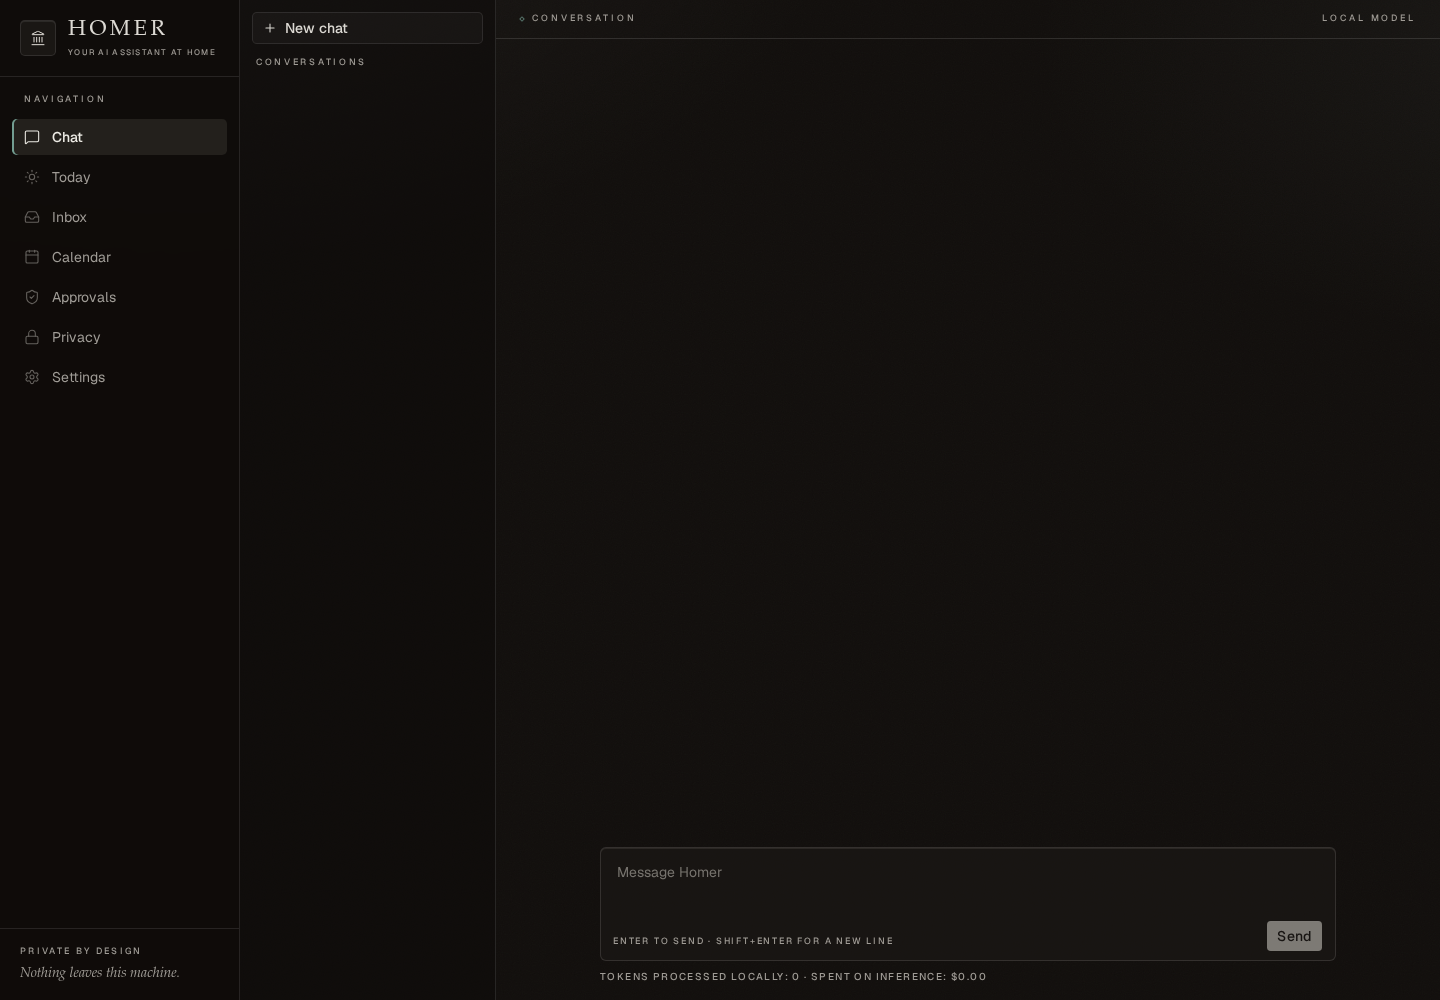
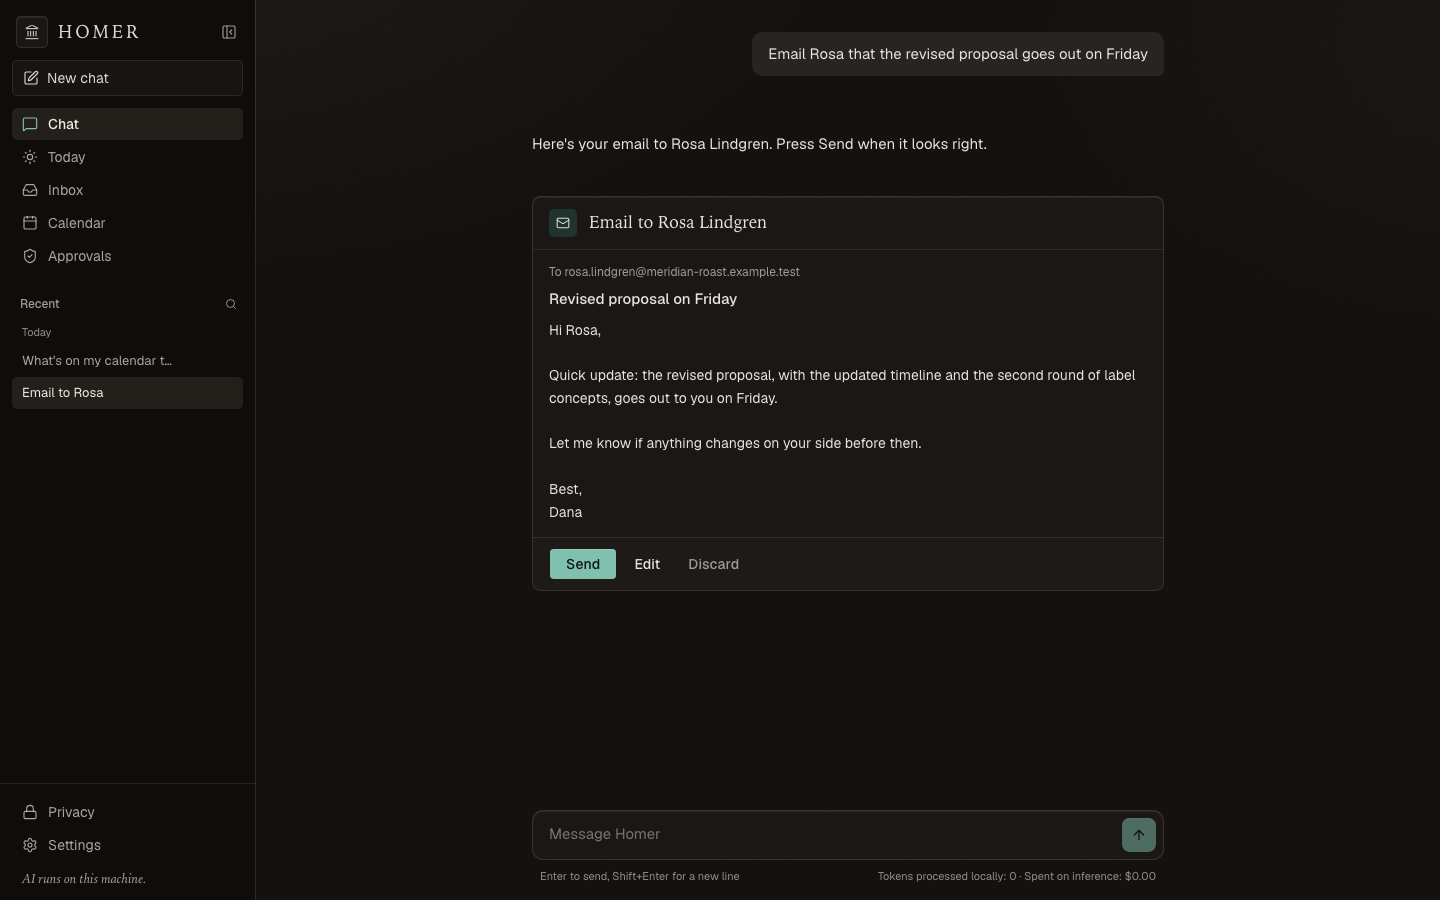
docs: chat cards, sidebar and new UI previews

diff --git a/docs/DECISIONS.md b/docs/DECISIONS.md
@@ -167,3 +167,8 @@ One line each. Newest at the bottom.
 - 2026-11-06: Typed approvals also accept "fire it off" and "go for it".
 - 2026-11-10: Sent mail carries an HTML alternative built from the plain-text paragraphs. Reason: Gmail mobile showed hard line breaks mid-sentence in plain-text-only mail; HTML lets every client reflow. Reading mail still prefers the plain part.
 - 2026-11-10: Contacts calls go to `people.googleapis.com` (separate allowlisted host; follows `GOOGLE_API_BASE` when that points at the simulator). Unknown tool errors show a plain sentence naming the service and are logged with details instead of echoing raw Google error pages. Reason: first real-Gmail contacts lookup returned 404 HTML into the chat.
+- 2026-11-10: Approvals store `message_id` (the assistant reply that shows them), set when the reply is saved; an Alembic migration backfills it from the first assistant reply after each approval. The chat page loads `GET /api/approvals?conversation_id=N` and renders each card under its message. Reason: cards lived only in the SSE stream and never rendered (the stream compared a numeric conversation id with the string from the URL), so a reload or a missed event lost the Send button.
+- 2026-11-10: "show me the draft", "show it", "where is it" with a pending approval in the chat answer "Here's the draft." and re-send the card without a model call; the card moves to that reply. Reason: one live card per approval, no duplicates.
+- 2026-11-10: Email approval payloads carry `to_name` when the recipient came from contacts, so the card header reads "Email to <name>". The confirmation sentence is now "Here's your email to <name>. Press Send when it looks right." (one edit in `services/jobs/send_email.py`, which another branch also edits).
+- 2026-11-10: Conversation titles are made in code: from the first resolved intent ("Email to Sam", "Calendar tomorrow", the search query), else the first five words with an ellipsis; addresses become a first name. Titles still equal to the old six-word default are rewritten when the list is read. Reason: titles were raw prompts cut mid-word, sometimes showing email addresses.
+- 2026-11-10: One collapsible sidebar (state in `localStorage`, overlay under 768 px) holds navigation and, on Chat, the recent conversations; the separate conversation column and the chat header strip are gone. Small labels are sentence case; only the HOMER wordmark keeps capitals. A `brand` teal token (from the existing ring hue, AA in both themes) is the one primary-action colour. Guidance: Anthropic's public `frontend-design` skill (skills/frontend-design/SKILL.md). Reason: owner asked for a calmer, less cluttered chat.

diff --git a/docs/CHANGELOG.md b/docs/CHANGELOG.md
@@ -20,3 +20,4 @@
 - Mail and calendar views: a three-pane Inbox read live from Gmail (folders, labels and Homer's categories with counts, Gmail search, paging, threads with sanitised HTML in a sandboxed frame, remote images blocked until "Show images", attachments listed), reply / reply all / forward / new message in an inline composer with "Draft with Homer", Send through the existing `mail_send` approval card, and direct archive, star, read/unread and labels; a Day / Week / Month Calendar in the user's timezone with an all-day strip, side-by-side overlaps, a now line, event details with responses and video link, click or drag to create, drag to move, edit and cancel, all through `cal_create`/`cal_update`/`cal_delete` approval cards, and a "Find a time" panel with attendees; keyboard shortcuts with a `?` cheat sheet; new `/api/mail/*` and `/api/calendar/events*` routes, google tools `mail_list_threads`, `mail_labels`, `mail_thread_label`, `cal_get` and attendee-aware `cal_find_free_slots`, mirrored in the simulator.
 - Polish 2: "Your day" card at the top of Today (greeting, meetings with the next one counted down, emails that need you, follow-ups, approvals, one action each); `GET /api/activity` timeline API; streamed words fade in, new bubbles and approval cards slide in, skeletons on Today, Approvals and chat history, typing dots, `prefers-reduced-motion` respected.
 - QA round 2 trust fixes: moving an event finds the one just booked, proposed or named by its old day and person, keeps its length and never books a second; a grounded end-of-day summary from Sent, executed and pending approvals and unanswered threads; answers stripped of "provided text" scaffolding and send claims; vague "email her about it" asks once; first-person drafts, in-thread replies with `Re:`, no made-up addresses and greetings by known name; tone edits keep the length; slot-finding, "what's on Thursday", one-weekday and next-meeting calendar fixes; varied fixed confirmations; "fire it off" approves.
+- Chat cards and UI polish: approval cards are stored against the reply that offered them and reload with the chat (`GET /api/approvals?conversation_id=`), with live status chips; "show me the draft" re-shows the card without the model; short readable chat titles; one collapsible sidebar with recent chats, a centred empty chat, plain assistant text and soft user bubbles, a slimmer composer, sentence-case labels and an email-preview approval card with one teal Send button.

diff --git a/docs/ARCHITECTURE.md b/docs/ARCHITECTURE.md
@@ -127,7 +127,12 @@ and search server defaults.
    saves the text shown so far (tokens, or the last `replace`) as an assistant message with
    `stopped=true` and re-raises. `run_turn` cancels the jobs task in a `finally`, so the model call
    stops too. No `done` frame and no token count for a stopped turn. Every assistant message also
-   stores `created_approval` (an `approval_required` event was sent during the turn).
+   stores `created_approval` (an `approval_required` event was sent during the turn), and every
+   approval shown in the turn gets that message's id as `approvals.message_id`. The dashboard loads
+   `GET /api/approvals?conversation_id=N` (all statuses but `superseded`) and draws each card under
+   its message, so cards survive a reload. "show me the draft" with a pending approval re-sends the
+   card with "Here's the draft." and no model call. After the first turn the title becomes a short
+   one from the resolved intent (`services/conversations.title_for`).
 8. Regenerate: `POST /api/conversations/{id}/regenerate` deletes the last user/assistant pair and
    returns the user text; the browser sends it again through `/api/chat`. A reply with
    `created_approval` is 409 and the button is hidden for it.
@@ -139,7 +144,8 @@ and search server defaults.
   `reply_to_latest_from` replies in that sender's newest thread. One `write_email` structured call
   writes subject and body in the client's tone; `mail_draft`; a `mail_send` approval created
   through `services/approvals.create` with payload `{draft_id, to, subject, body, thread_id}`;
-  then "Draft to <name> is ready. Edit it or press Send."
+  then "Here's your email to <name>. Press Send when it looks right." The payload also carries
+  `to_name` when the recipient came from contacts.
 - `create_event`: attendees resolved like recipients (an unknown one is left off and asked
   about); an explicit start is used as given (end = end or start + duration, default 30 min); a
   window (default business hours) goes to `cal_find_free_slots` with the user's `timezone` and the
